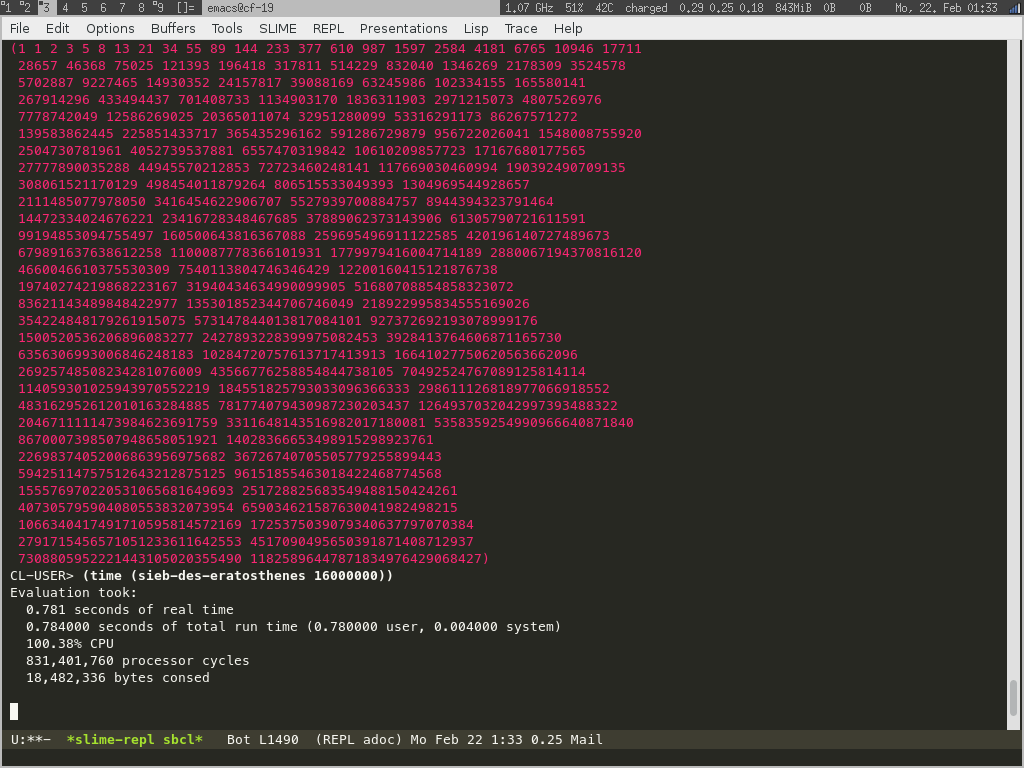
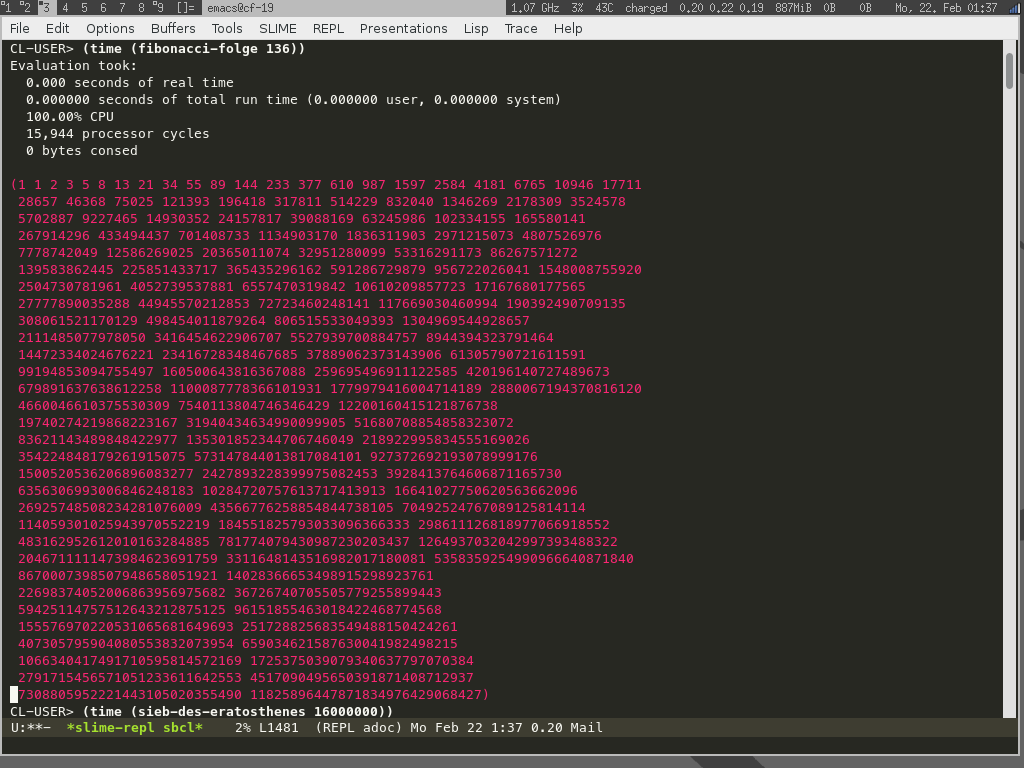
Ergänzung

Changed region(s): [[0.0, 0.0312, 1.0, 1.0], [0.4688, 0.0, 0.5625, 0.0312]]

diff --git a/README.md b/README.md
@@ -82,6 +82,13 @@ Bearbeitung von Aufgaben des Projects Euler.
 * **ziffer-summe**
 
 
+Um einen Gefühl für die Geschwindigkeit zu erhalten:
+----------------------------------------------------
+Für die Berechnung der Bildschirmfotos wurden z.B. eine Liste aller Primzahlen bis 16.000.000 erstellt, wofür ein 1GHz Rechner gerade einmal 0.781 Sekunden benötigte.
+Weiterhin sieht man diverse andere Berechnungsroutinen, so auch eine Auflistung der ersten 136 Fibonacci-Zahlen (weil sie so schön auf ein Bildschirmfoto passten). Die Berechnung erfolgte in Bruchteilen einer Sekunde, so das der Timer auf 0,000 Sekunden verblieben ist. Die Berechnung der ersten 10.000 Zahlen der Fibonacci-Folge benötigten immer noch nur den Bruchteil einer Sekunde.
+Wem das zu langsam ist: Es geht vermutlich noch viel, viel schneller, wenn man unbedingt compilerspezifisch optimieren möchte, oder wenn man Sicherheit und Debugmöglichkeit verbannt, aber das war und ist nicht mein Ansinnen. Meine Routinen habe ich nicht bestem Wissen und Gewissen geschrieben, sie sollten stets noch einen Hauch von _Eleganz_ darstellen, außerdem hasse ich es, mich ewig zu wiederholen, ich spiele gleichermassen gerne mit do, dolist, dotimes und loop. Außerdem sollten die Routinen _universell mit jeder vollständigen Implementation von Common Lisp lauffähig_ sein.
+
+
 Bildschirmfotos
 ---------------
 ![Bildschirmfoto](/bildschirmfoto.png)
